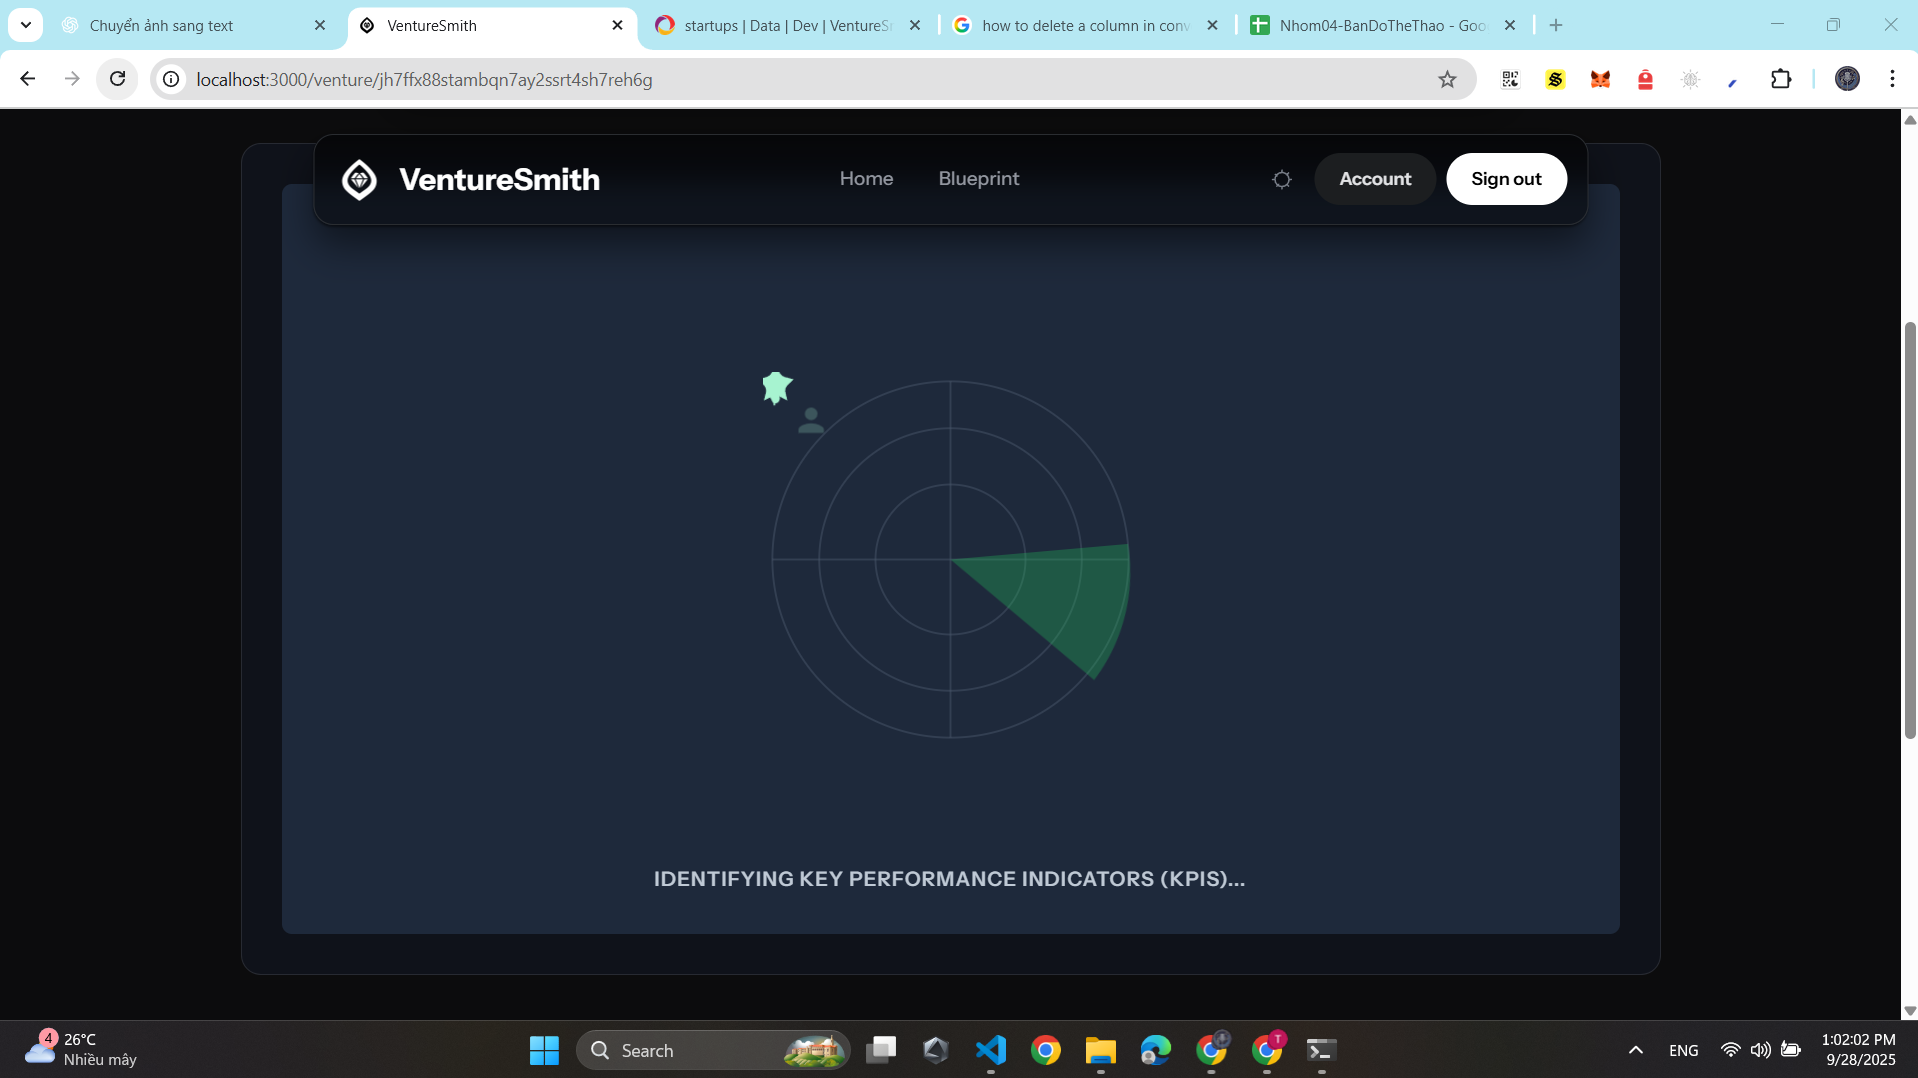
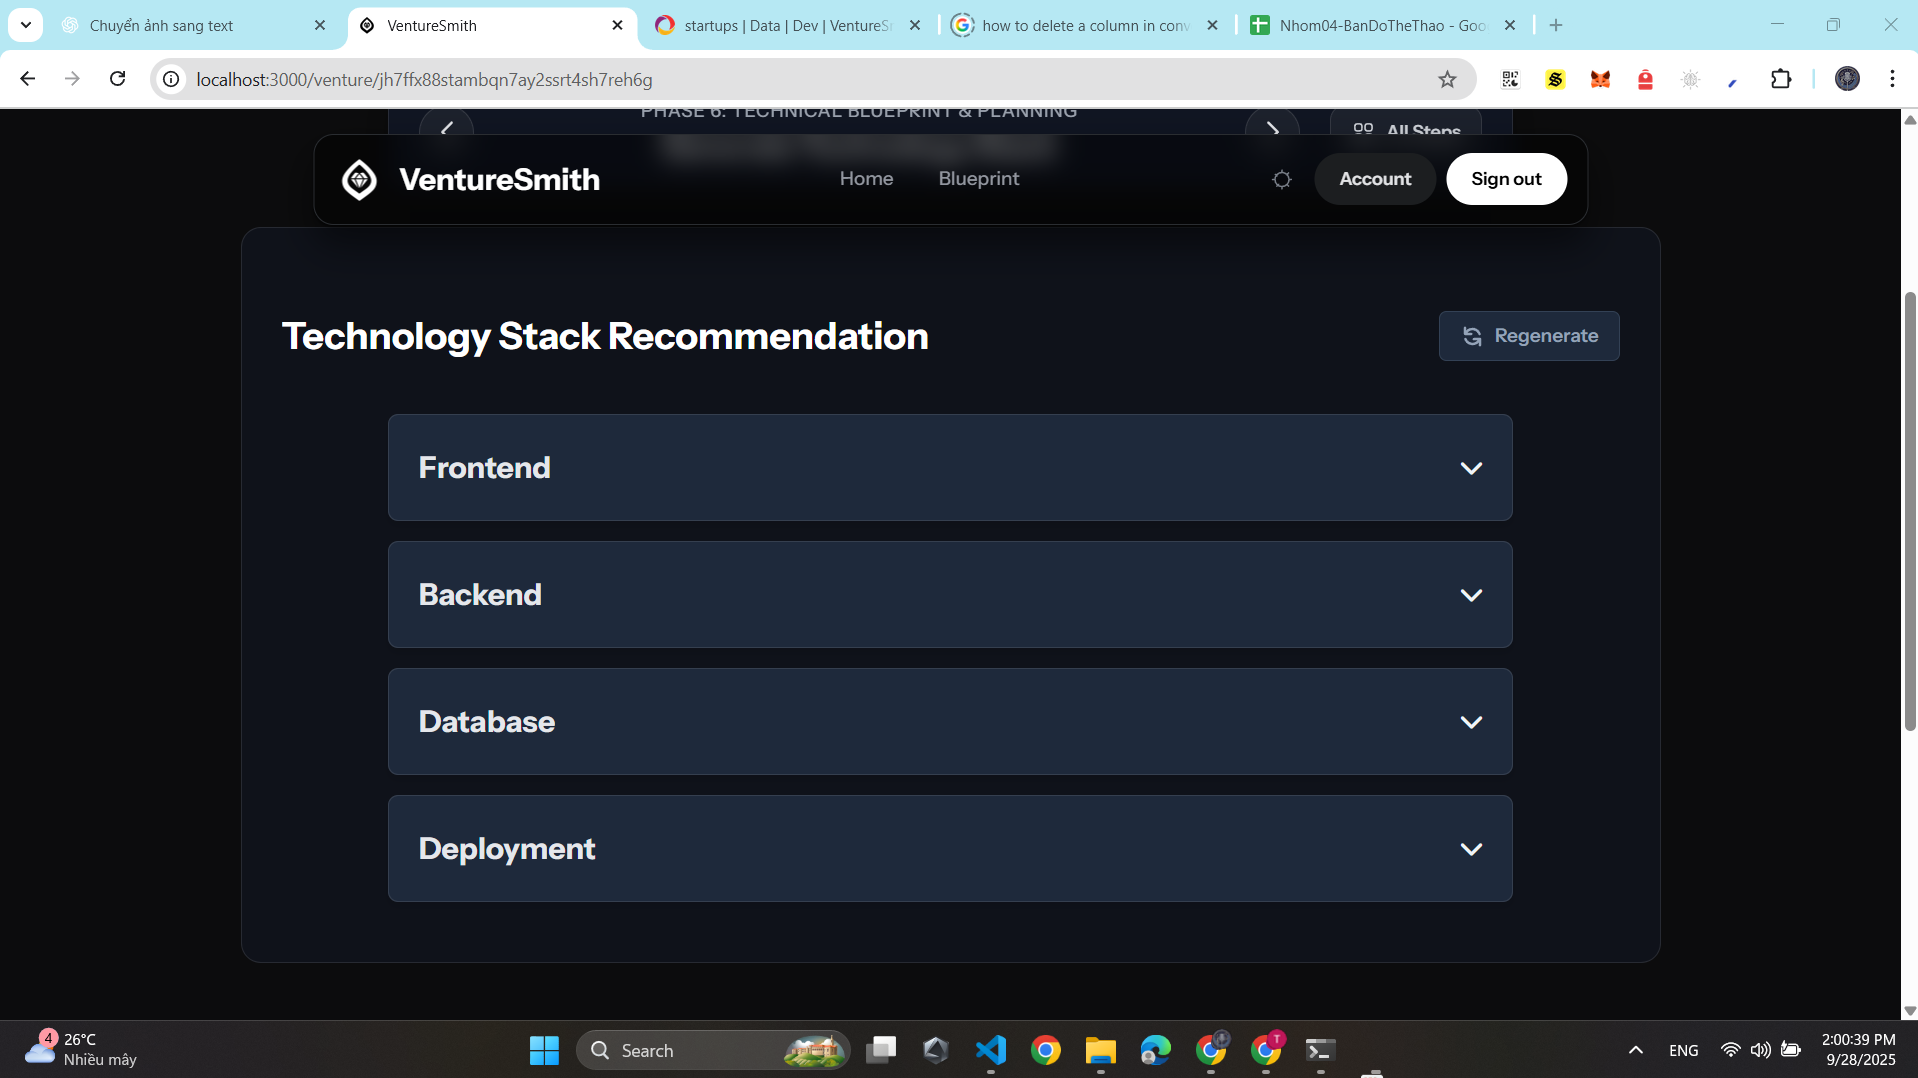
Fixed the layout a bit

diff --git a/components/pages/GenerateTechStack.tsx b/components/pages/GenerateTechStack.tsx
@@ -96,10 +96,20 @@ const getColorForTech = (techName: string): string => {
   return '#FFFFFF'; // Default color
 };
 
+const getIconForCategory = (categoryName: string): string => {
+  const lowerCaseName = categoryName.toLowerCase();
+  if (lowerCaseName.includes('frontend')) return 'fa-solid fa-desktop';
+  if (lowerCaseName.includes('backend')) return 'fa-solid fa-server';
+  if (lowerCaseName.includes('database')) return 'fa-solid fa-database';
+  if (lowerCaseName.includes('deployment')) return 'fa-solid fa-cloud-arrow-up';
+  return 'fa-solid fa-layer-group'; // Default icon
+};
+
 // --- Main Component ---
 const GenerateTechStack: React.FC<GenerateTechStackProps> = ({ startup }) => {
   const [isGenerating, setIsGenerating] = useState(false);
   const [result, setResult] = useState<TechStackResult | null>(null);
+  const [activeIndex, setActiveIndex] = useState<number | null>(0);
   const generateTechStackAction = useAction(api.actions.generateTechStack);
 
   const loadingTexts = [
@@ -172,23 +182,34 @@ const GenerateTechStack: React.FC<GenerateTechStackProps> = ({ startup }) => {
   );
 
   const renderResults = (data: TechStackResult) => (
-    <div className="tech-stack-results">
+    <div className="accordion">
       {data.stack.map((category, index) => (
-        <div key={index} className="tech-category-card">
-          <h3 className="tech-category-header">{category.category}</h3>
-          <div>
-            {category.technologies.map((tech, techIndex) => (
-              <div key={techIndex} className="tech-item">
-                <div className="tech-item-icon">
-                  <i className={getIconForTech(tech.name)} style={{ color: getColorForTech(tech.name) }}></i>
+        <div key={index} className="accordion-item">
+          <button 
+            className="accordion-header" 
+            onClick={() => setActiveIndex(activeIndex === index ? null : index)}
+          >
+            <i className={`${getIconForCategory(category.category)} category-icon`}></i>
+            <h3>{category.category}</h3>
+            <span className={`accordion-chevron ${activeIndex === index ? 'expanded' : ''}`}>
+              <i className="fas fa-chevron-down"></i>
+            </span>
+          </button>
+          {activeIndex === index && (
+            <div className="accordion-content">
+              {category.technologies.map((tech, techIndex) => (
+                <div key={techIndex} className="tech-item">
+                  <div className="tech-item-icon">
+                    <i className={getIconForTech(tech.name)} style={{ color: getColorForTech(tech.name) }}></i>
+                  </div>
+                  <div className="tech-item-details">
+                    <h4>{tech.name}</h4>
+                    <p>{tech.justification}</p>
+                  </div>
                 </div>
-                <div className="tech-item-details">
-                  <h4>{tech.name}</h4>
-                  <p>{tech.justification}</p>
-                </div>
-              </div>
-            ))}
-          </div>
+              ))}
+            </div>
+          )}
         </div>
       ))}
     </div>

diff --git a/components/pages/IdentifyGrowthMetrics.tsx b/components/pages/IdentifyGrowthMetrics.tsx
@@ -130,6 +130,7 @@ interface IdentifyGrowthMetricsProps {
 const IdentifyGrowthMetrics: React.FC<IdentifyGrowthMetricsProps> = ({ startup, startupId }) => {
   const [isLoading, setIsLoading] = useState(false);
   const [isGenerating, setIsGenerating] = useState(false);
+  const [activeIndex, setActiveIndex] = useState<number | null>(0);
   const updateGrowthMetrics = useMutation(api.startups.updateGrowthMetrics);
 
   const metricsResult = startup?.growthMetrics ? JSON.parse(startup.growthMetrics) : null;
@@ -185,21 +186,31 @@ const IdentifyGrowthMetrics: React.FC<IdentifyGrowthMetricsProps> = ({ startup, 
       />
       <div className="growth-metrics-content">
         <p className="growth-metrics-intro">{metricsResult.introduction}</p>
-        <div className="metrics-grid">
+        <div className="accordion">
           {metricsResult.metrics.map((metric: any, index: number) => (
-            <div key={index} className="metric-card" style={{ borderTopColor: metric.color }}>
-              <div className="metric-card-header">
+            <div key={index} className="accordion-item">
+              <button 
+                className="accordion-header" 
+                onClick={() => setActiveIndex(activeIndex === index ? null : index)}
+              >
                 <i className={`${metric.icon} metric-icon`} style={{ color: metric.color }}></i>
                 <h3>{metric.category}</h3>
-              </div>
-              <p className="metric-card-description">{metric.description}</p>
-              <ul className="metric-points">
-                {metric.points.map((point: any, pIndex: number) => (
-                  <li key={pIndex}>
-                    <strong>{point.name}:</strong> {point.detail}
-                  </li>
-                ))}
-              </ul>
+                <span className={`accordion-chevron ${activeIndex === index ? 'expanded' : ''}`}>
+                  <i className="fas fa-chevron-down"></i>
+                </span>
+              </button>
+              {activeIndex === index && (
+                <div className="accordion-content">
+                  <p className="metric-card-description">{metric.description}</p>
+                  <ul className="metric-points">
+                    {metric.points.map((point: any, pIndex: number) => (
+                      <li key={pIndex}>
+                        <strong>{point.name}:</strong> {point.detail}
+                      </li>
+                    ))}
+                  </ul>
+                </div>
+              )}
             </div>
           ))}
         </div>

diff --git a/components/pages/GenerateTechStack.css b/components/pages/GenerateTechStack.css
@@ -109,48 +109,86 @@
 }
 
 /* --- Results View --- */
-.tech-stack-results {
-    display: grid;
-    grid-template-columns: repeat(4, 1fr);
-    gap: 1.5rem;
+.accordion {
+  width: 100%;
+  max-width: 900px;
+  margin: 2rem auto 0 auto;
 }
 
-@media (max-width: 1200px) {
-    .tech-stack-results {
-        grid-template-columns: repeat(2, 1fr);
-    }
+.accordion-item {
+  background-color: #1e293b; /* bg-slate-800 */
+  border-radius: 8px;
+  margin-bottom: 1rem;
+  box-shadow: 0 4px 6px rgba(0, 0, 0, 0.1);
+  border: 1px solid rgba(255, 255, 255, 0.1);
 }
 
-@media (max-width: 768px) {
-    .tech-stack-results {
-        grid-template-columns: 1fr;
-    }
+.accordion-header {
+  display: flex;
+  justify-content: space-between;
+  align-items: center;
+  width: 100%;
+  padding: 1.5rem;
+  background-color: transparent;
+  border: none;
+  text-align: left;
+  cursor: pointer;
+  font-size: 1.2rem;
+  color: #f0f4f8;
 }
 
-.tech-category-card {
-    background: rgba(255, 255, 255, 0.03);
-    border: 1px solid rgba(255, 255, 255, 0.1);
-    border-radius: 16px;
-    padding: 1.5rem;
+.accordion-header h3 {
+  margin: 0;
+  font-size: 1.5rem;
+  font-weight: 700;
+  color: #e5e7eb;
+  flex-grow: 1;
 }
 
-.tech-category-header {
-    font-size: 1.5rem;
-    font-weight: 700;
-    color: #e5e7eb;
-    margin-bottom: 1.5rem;
+.category-icon {
+  margin-right: 1rem;
+  font-size: 1.3rem;
+  width: 25px;
+  text-align: center;
+  color: #94a3b8; /* slate-400 */
+}
+
+.accordion-chevron {
+  margin-left: 1rem;
+  transition: transform 0.3s ease;
+}
+
+.accordion-chevron.expanded {
+  transform: rotate(180deg);
+}
+
+.accordion-content {
+  padding: 0 1.5rem 1.5rem 1.5rem;
+  animation: fadeInContent 0.5s ease;
+}
+
+@keyframes fadeInContent {
+  from { opacity: 0; transform: translateY(-10px); }
+  to { opacity: 1; transform: translateY(0); }
 }
 
 .tech-item {
     display: flex;
     gap: 1rem;
-    margin-bottom: 1.5rem;
+    padding: 1rem 0;
+    border-bottom: 1px solid rgba(255, 255, 255, 0.1);
+}
+
+.tech-item:last-child {
+    border-bottom: none;
+    padding-bottom: 0.5rem;
 }
 
 .tech-item-icon {
     font-size: 2rem;
     width: 40px;
     text-align: center;
+    flex-shrink: 0;
 }
 
 .tech-item-details h4 {

diff --git a/components/pages/IdentifyGrowthMetrics.css b/components/pages/IdentifyGrowthMetrics.css
@@ -50,55 +50,80 @@
   margin-right: auto;
 }
 
-/* Grid for displaying metric cards */
-.metrics-grid {
-  display: grid;
-  grid-template-columns: repeat(auto-fit, minmax(320px, 1fr));
-  gap: 2rem;
+/* Accordion Styles */
+.accordion {
+  width: 100%;
+  max-width: 900px;
+  margin: 0 auto;
 }
 
-/* Individual metric card styling */
-.metric-card {
-  background-color: #1e293b;
+.accordion-item {
+  background-color: #1e293b; /* bg-slate-800 */
   border-radius: 8px;
-  padding: 1.5rem;
-  border-top: 4px solid;
-  transition: transform 0.3s ease, box-shadow 0.3s ease;
+  margin-bottom: 1rem;
   box-shadow: 0 4px 6px rgba(0, 0, 0, 0.1);
+  transition: all 0.3s ease;
 }
 
-.metric-card:hover {
-  transform: translateY(-5px);
-  box-shadow: 0 10px 20px rgba(0, 0, 0, 0.2);
+.accordion-item:last-child {
+  margin-bottom: 0;
 }
 
-.metric-card-header {
+.accordion-header {
   display: flex;
   align-items: center;
-  margin-bottom: 1rem;
+  width: 100%;
+  padding: 1.5rem;
+  background-color: transparent;
+  border: none;
+  text-align: left;
+  cursor: pointer;
+  font-size: 1.2rem;
+  color: #f0f4f8;
+}
+
+.accordion-header h3 {
+  margin: 0;
+  font-size: 1.5rem;
+  flex-grow: 1;
 }
 
 .metric-icon {
   font-size: 1.8rem;
-  margin-right: 1rem;
+  margin-right: 1.5rem;
 }
 
-.metric-card h3 {
-  margin: 0;
-  font-size: 1.5rem;
-  color: #f0f4f8;
+.accordion-chevron {
+  margin-left: 1rem;
+  transition: transform 0.3s ease;
+}
+
+.accordion-chevron.expanded {
+  transform: rotate(180deg);
+}
+
+.accordion-content {
+  padding: 0 1.5rem 1.5rem 1.5rem;
+  animation: fadeInContent 0.5s ease;
+}
+
+@keyframes fadeInContent {
+  from { opacity: 0; transform: translateY(-10px); }
+  to { opacity: 1; transform: translateY(0); }
 }
 
 .metric-card-description {
   font-style: italic;
   color: #a0aec0;
   margin-bottom: 1.5rem;
+  padding-left: 3.3rem; /* Align with points */
 }
 
 .metric-points {
   list-style: none;
   padding: 0;
   margin: 0;
+  padding-left: 3.3rem; /* Align with description */
 }
 
 .metric-points li {
